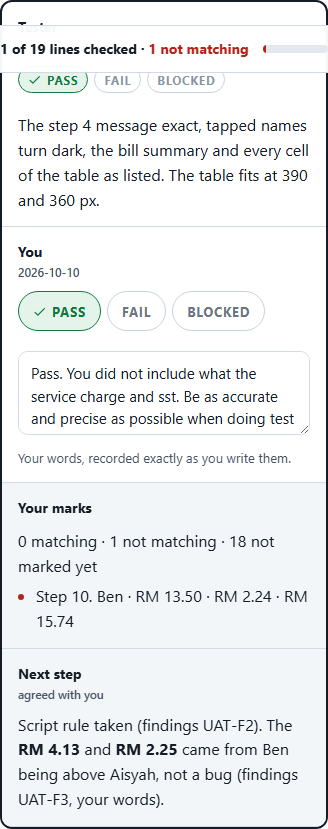
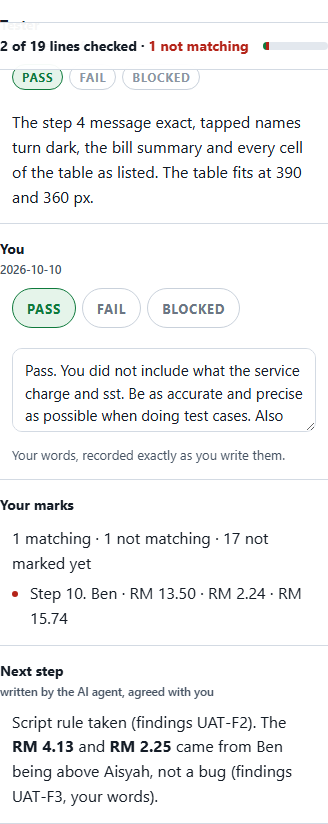
design(uat-sheet): revise sheet C on the owner's notes
Drops the step highlight and chip icons and restyles the verdict table.
The next step is marked as written by the AI agent.

Changed region(s): [[0.0, 0.0, 1.0, 1.0]]

diff --git a/docs/design-explore/v1.1.0/uat-sheet/c2.html b/docs/design-explore/v1.1.0/uat-sheet/c2.html
@@ -152,9 +152,6 @@
   .steps tbody td { padding: 14px 12px; vertical-align: top; border-bottom: 1px solid var(--rule); }
   .steps tbody td.n { padding-left: 0; }
   .num { display: inline-grid; place-items: center; width: 32px; height: 32px; border-radius: 50%; border: 1.5px solid var(--ink); font-weight: 750; font-size: 14px; font-variant-numeric: tabular-nums; }
-  tr.step.is-current td { background: var(--accent-bg); }
-  tr.step.is-current td.n { box-shadow: inset 4px 0 0 var(--accent); }
-  tr.step.is-current .num { background: var(--accent); border-color: var(--accent); color: #fff; }
   tr.step.is-done .num { background: var(--ink); color: #fff; }
   tr.step.has-no .num { background: var(--fail); border-color: var(--fail); color: #fff; }
   .see-label { display: none; }
@@ -197,10 +194,11 @@
   .k-limit { color: var(--limit); background: var(--limit-bg); }
 
   /* Verdict block (B's table, with your row live) */
-  .verdicts { margin-top: 28px; border: 2px solid var(--ink); border-radius: 12px; overflow: hidden; }
-  .verdicts th, .verdicts td { padding: 14px 16px; vertical-align: top; border-bottom: 1px solid var(--rule); text-align: left; }
-  .verdicts tr:last-child th, .verdicts tr:last-child td { border-bottom: 0; }
-  .verdicts thead th { background: var(--ink); color: #fff; font-size: var(--fs-label); letter-spacing: .1em; text-transform: uppercase; padding: 10px 16px; }
+  .verdicts { margin-top: 36px; }
+  .verdicts th, .verdicts td { padding: 14px 12px; vertical-align: top; border-bottom: 1px solid var(--rule); text-align: left; }
+  .verdicts tbody th { padding-left: 0; }
+  .verdicts thead th { color: var(--ink-2); font-size: var(--fs-label); font-weight: 700; letter-spacing: .1em; text-transform: uppercase; padding: 0 12px 10px; border-bottom: 2px solid var(--ink); }
+  .verdicts thead th.c-who { padding-left: 0; }
   .verdicts thead th.c-who { width: 150px; }
   .verdicts thead th.c-v { width: 330px; }
   .verdicts tbody th { font-size: 14px; }
@@ -216,10 +214,8 @@
   .words { margin: 0; }
   .note-field { width: 100%; min-height: 84px; font: 15px/1.5 var(--sans); color: var(--ink); border: 1px solid var(--rule); border-radius: 10px; padding: 10px 12px; resize: vertical; }
   .note-hint { margin: 6px 0 0; font-size: 13px; color: var(--ink-2); }
-  tr.marksum td, tr.marksum th { background: var(--tint); }
   .no-list { margin: 6px 0 0; padding-left: 18px; color: var(--fail); }
   .no-list li span { color: var(--ink); }
-  tr.next td, tr.next th { background: var(--tint); }
   .case-foot { display: flex; justify-content: flex-end; margin-top: 16px; }
   .primary { min-height: 44px; padding: 0 18px; border-radius: 10px; border: 0; background: var(--ink); color: #fff; font-weight: 700; cursor: pointer; }
 
@@ -265,8 +261,6 @@
     .steps thead { display: none; }
     .steps tbody tr.step { display: grid; grid-template-columns: 44px minmax(0, 1fr); border-bottom: 1px solid var(--rule); padding: 12px 0; }
     .steps tbody td { border: 0; padding: 0; background: none !important; }
-    tr.step.is-current { box-shadow: inset 4px 0 0 var(--accent); background: var(--accent-bg); padding-left: 8px !important; margin: 0 -16px; padding-right: 16px !important; grid-template-columns: 52px minmax(0, 1fr) !important; }
-    tr.step.is-current td.n { box-shadow: none; padding-left: 8px; }
     .steps tbody td.do { padding-bottom: 8px; }
     .steps tbody td.see { grid-column: 1 / -1; padding: 10px; background: var(--tint) !important; border-radius: 8px; }
     .see-label { display: block; font-size: 11px; font-weight: 700; letter-spacing: .1em; text-transform: uppercase; color: var(--ink-2); margin-bottom: 6px; }
@@ -458,8 +452,8 @@
   const plain = (s) => s.replace(/[*`\[\]]/g, "");
 
   const VKEY = { "PASS": "pass", "FAIL": "fail", "BLOCKED": "block", "NOTE": "note", "NOT RUN": "state" };
-  const VICON = { "PASS": "check", "FAIL": "x" };
-  const chip = (v, off) => `<span class='vchip v-${VKEY[v]}${off ? " off" : ""}'>${VICON[v] ? svg(VICON[v]) : ""}${v}</span>`;
+  // Verdicts are words and colour only. The tick and cross belong to the line marks.
+  const chip = (v, off) => `<span class='vchip v-${VKEY[v]}${off ? " off" : ""}'>${v}</span>`;
   const VERDICTS = ["PASS", "FAIL", "BLOCKED"];
 
   document.getElementById("legend").innerHTML = LEGEND.map((l) =>
@@ -546,10 +540,8 @@
     const ct = counts(c);
     const stepOpen = (si) => ct.all.some((x) => x.si === si && !s.marks[x.key]);
     const stepNo = (si) => ct.all.some((x) => x.si === si && s.marks[x.key] === "no");
-    const firstOpen = c.steps.findIndex((_, si) => stepOpen(si));
-
     const steps = c.steps.map((st, si) => {
-      const cls = ["step", si === firstOpen ? "is-current" : "", !stepOpen(si) ? "is-done" : "", stepNo(si) ? "has-no" : ""].join(" ").replace(/\s+/g, " ").trim();
+      const cls = ["step", !stepOpen(si) ? "is-done" : "", stepNo(si) ? "has-no" : ""].join(" ").replace(/\s+/g, " ").trim();
       return `<tr class='${cls}'><td class='n'><span class='num'>${si + 1}</span></td><td class='do'>${rich(st.do)}</td><td class='see'>${seeCell(st, si, s)}</td></tr>`;
     }).join("");
     const notes = c.notes.map((n) =>
@@ -585,11 +577,11 @@
       <div class='verdicts'><table>
         <thead><tr><th scope='col' class='c-who'>Who</th><th scope='col' class='c-v'>Verdict</th><th scope='col'>Note</th></tr></thead>
         <tbody>
-          <tr><th scope='row'>Tester<small>pre-run, an agent</small></th><td><div class='ballot' role='img' aria-label='Tester verdict ${c.tester.v}'>${testerBallot}</div></td><td><p class='words'>${figs(c.tester.w)}</p></td></tr>
+          <tr><th scope='row'>Tester<small>an AI agent, before you</small></th><td><div class='ballot' role='img' aria-label='Tester verdict ${c.tester.v}'>${testerBallot}</div></td><td><p class='words'>${figs(c.tester.w)}</p></td></tr>
           <tr><th scope='row'>You<small>${c.you.d}</small></th><td><fieldset class='ballot'><legend class='sr'>Your verdict</legend>${ballot}</fieldset></td>
             <td><textarea class='note-field' id='note' aria-label='Your note'>${esc(s.note)}</textarea><p class='note-hint'>Your words, recorded exactly as you write them.</p></td></tr>
           <tr class='marksum'><th scope='row'>Your marks</th><td colspan='2'>${ct.ok} matching · ${ct.no} not matching · ${ct.open} not marked yet${ct.no ? `<ul class='no-list'>${noItems}</ul>` : ""}</td></tr>
-          <tr class='next'><th scope='row'>Next step<small>agreed with you</small></th><td colspan='2'>${figs(c.next)}</td></tr>
+          <tr class='next'><th scope='row'>Next step<small>written by the AI agent, agreed with you</small></th><td colspan='2'>${figs(c.next)}</td></tr>
         </tbody></table></div>
       <div class='case-foot'><button type='button' class='primary' data-results>Results for the chat</button></div>`;
   }
